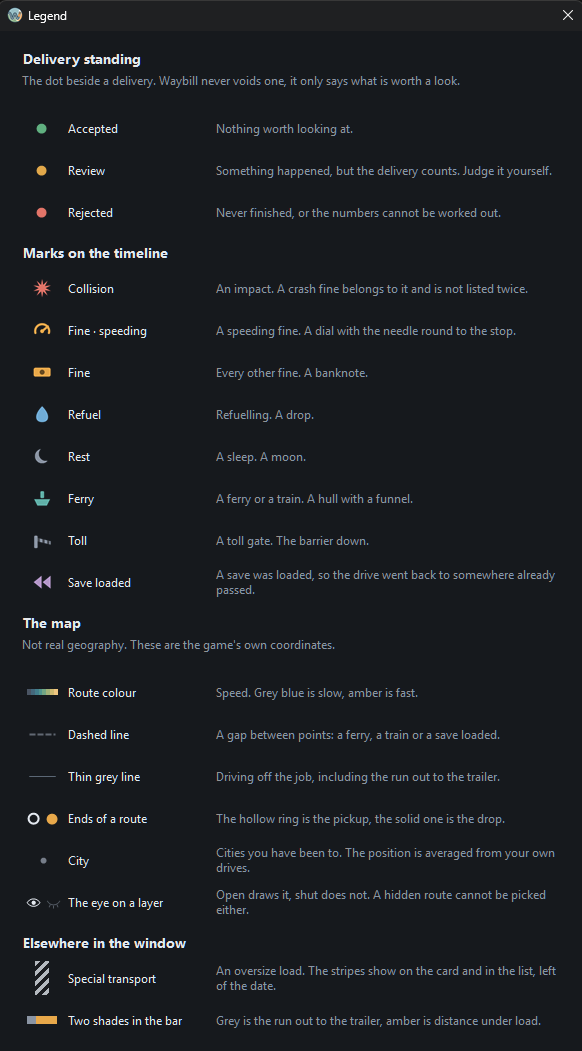
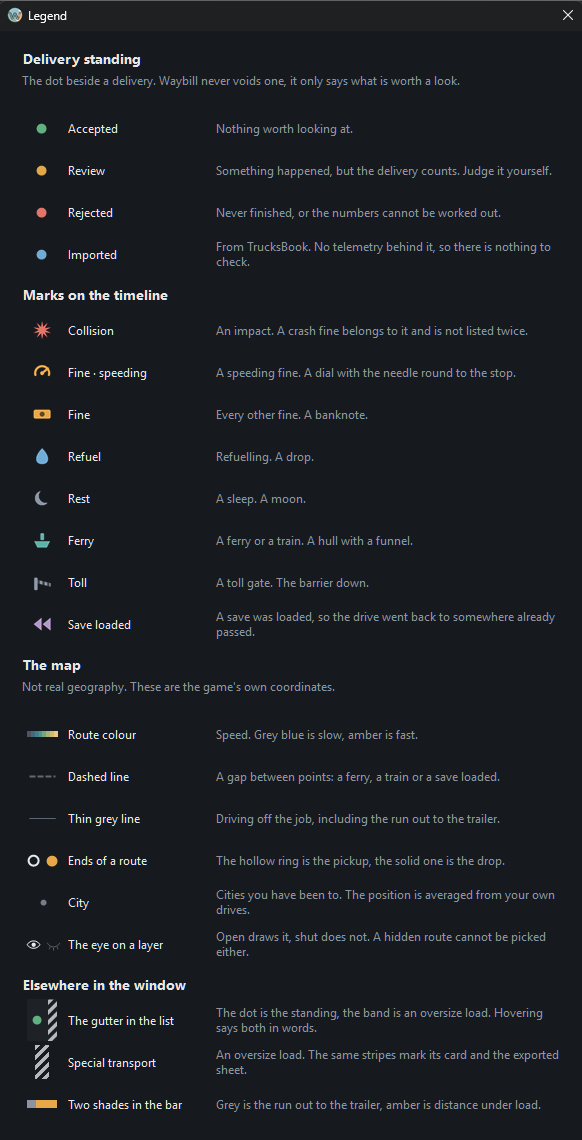
Describe the gutter and the two switches
The screenshots are retaken: the list has a different left edge and a
different bar above it, and the legend has two more entries.

diff --git a/README.md b/README.md
@@ -127,10 +127,19 @@ live in `%LOCALAPPDATA%\Waybill\`, independent of where the exe sits.
 Start order does not matter, the app connects to the game as soon as it finds it.
 Jobs are detected and saved without any input.
 
-Four pages down the left. *Deliveries* is the history, with search, a filter and
-the verdict on each drive. Clicking a column heading sorts by it, and the order
-chosen is kept: opening a delivery and coming back leaves the list the way it was
-left rather than back on date order.
+Four pages down the left. *Deliveries* is the history. Every row carries its
+verdict as a dot in the gutter on the left, and an oversize load carries hazard
+stripes beside it; hovering the gutter says both in words. Clicking a column
+heading sorts by it, and the order chosen is kept: opening a delivery and coming
+back leaves the list the way it was left rather than back on date order.
+
+Above the list, a search box and two switches. Each switch has a middle position
+meaning both, one end for **ETS2** and the other for **ATS**, and one end for an
+ordinary load and the other for an oversize one. They are the two questions a
+history is actually read with, and each is one click away from either answer.
+There is no filter by verdict: it is a dot on every row already, and on a
+history where almost everything is accepted, asking for "only the accepted ones"
+is asking for the list you are looking at.
 
 *Current job* is what the engine sees right now: the route, the cargo, how far
 along the drive is, and a log of what has happened, each entry with its figure,
@@ -157,10 +166,9 @@ together underneath it.
 
 ## What the window says without words
 
-A good deal of it is drawn rather than written. The dot beside a delivery is its
-verdict, the colour of a route is speed, stripes down the side of a card mean an
-oversize load, and each thing that happened on a drive gets a sign of its own on
-the timeline: a burst for an impact, a dial for a speeding fine, a note for any
+A good deal of it is drawn rather than written. The dot in a row's gutter is its
+verdict, the colour of a route is speed, hazard stripes mean an oversize load,
+and each thing that happened on a drive gets a sign of its own on the timeline: a burst for an impact, a dial for a speeding fine, a note for any
 other one, a drop, a moon, a hull, a barrier, two chevrons back for a save
 loaded.
 

diff --git a/docs/reference.md b/docs/reference.md
@@ -29,6 +29,11 @@ Column `validation_status`. One per delivery, derived from the flags.
 | `rejected` | At least one flag that is direct evidence the driving did not happen |
 | `imported` | Came from a TrucksBook export, so there is no telemetry to check |
 
+The list shows it as a coloured dot in the gutter rather than as a column of
+words: green accepted, amber review, red rejected, blue imported. Four values
+that are read at a glance do not need the width of a column, and hovering the
+gutter names the one it is showing along with whatever was found.
+
 ## Driving style
 
 Column `driving_style`. Derived from how the delivery was actually driven, never
@@ -237,8 +242,10 @@ reports on the job itself.
 It changes nothing about the verdict, the distance or the pay. It is shown because
 it changes what the drive was: an escorted convoy at half the usual speed is not
 the same delivery as the same route with a curtainsider. The interface marks it
-with hazard stripes, on the card and in the list, and the exported sheet carries a
-band across its head.
+with hazard stripes: down the card, down the row's gutter beside the verdict dot,
+and as a band across the head of the exported sheet. The list can be narrowed to
+one kind or the other, since an oversize haul is worth comparing against another
+oversize haul rather than against a curtainsider.
 
 ## Job market
 
